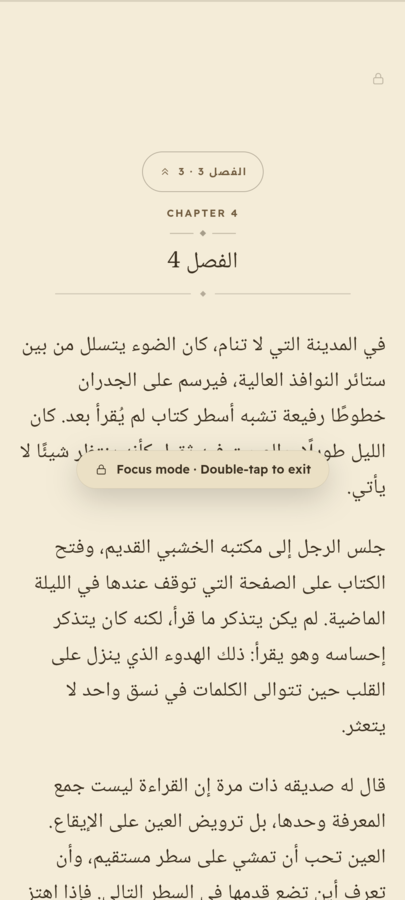
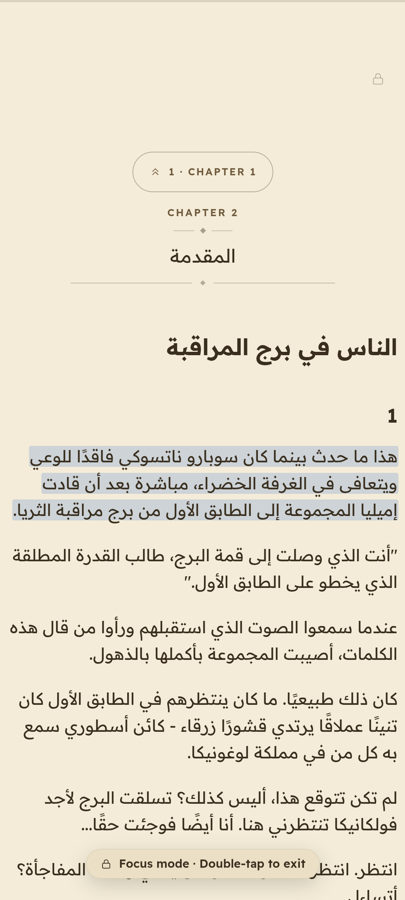
docs(screenshots): re-shoot Android on 0.6.0, with real books
Six of the eight shots the stores link to were from 2026-09-04. They
predate the hero card styles, the nav work, scroll-by-default and the
present bottom bar, so Orion and F-Droid were advertising an app a month
out of date.

Worse, two of them were of a TEST BOOK: the reader and focus shots were
of a fixture literally titled "اختبار التمرير" — scroll test — with
filler prose. Everything here is the real library instead: four actual
books with their own covers, which is what the published library shot
already showed.

Captured on the emulator from the 0.6.0 debug build, at the device's
native 1080x2400, then scaled to 405x900 for the README. Not from a
browser harness: these go to stores, so they should be the Android
WebView rendering them, bottom bar and status bar included.

Two new ones carry the release's headline feature — the same Word file
as flowing text and page-for-page, including the Layout picker the
labels were just reworded for. They fill the two empty cells the
README's table had.

06-pdf is deliberately unchanged. It is a real 354-page Arabic PDF that
is no longer in any library here and cannot be re-shot honestly; the
fixed-page chrome in it is identical to the current build, so it is not
stale, just older.

F-Droid's Arabic set is captured with the UI in Arabic, not English
copies: the whole shell mirrors, which is the point of shipping it.

Losslessly recompressed and checked pixel-identical afterwards
[…]

diff --git a/README.md b/README.md
@@ -172,10 +172,10 @@ you chose too, at a fixed ratio to the body.
     <td align="center" width="25%"><img src="docs/screenshots/mobile/08-settings.png" alt="Settings"/><br/><b>Settings</b></td>
   </tr>
   <tr>
+    <td align="center" width="25%"><img src="docs/screenshots/mobile/11-docx-layout.png" alt="A Word file set to flowing text"/><br/><b>Word · flowing</b></td>
+    <td align="center" width="25%"><img src="docs/screenshots/mobile/12-docx-pages.png" alt="The same Word file page-for-page"/><br/><b>Word · pages</b></td>
     <td align="center" width="25%"><img src="docs/screenshots/mobile/09-focus-entry.png" alt="Entering focus mode"/><br/><b>Focus, entering</b></td>
     <td align="center" width="25%"><img src="docs/screenshots/mobile/10-focus-mode.png" alt="Focus at rest"/><br/><b>Focus, at rest</b></td>
-    <td align="center" width="25%"></td>
-    <td align="center" width="25%"></td>
   </tr>
 </table>
 </details>
